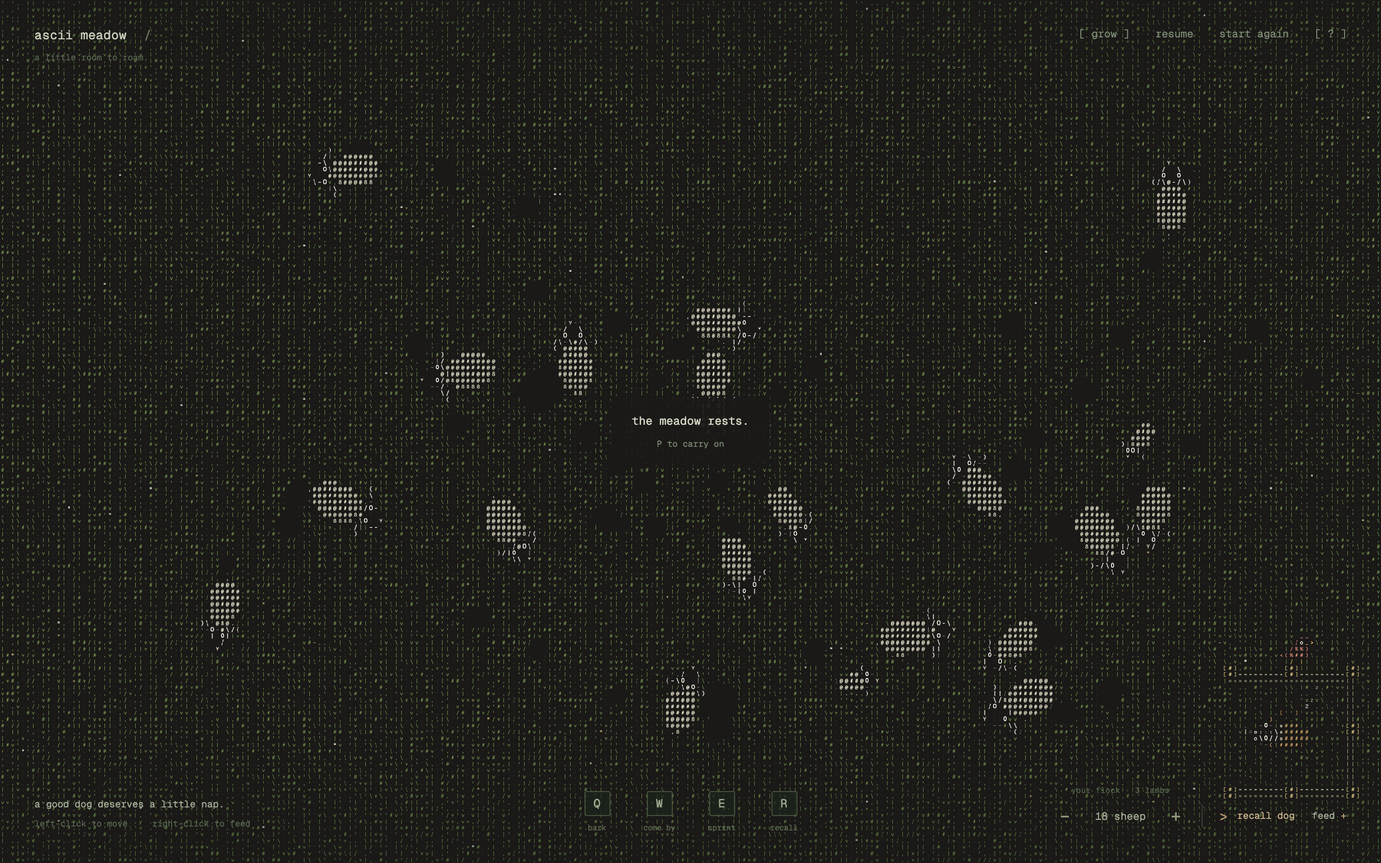
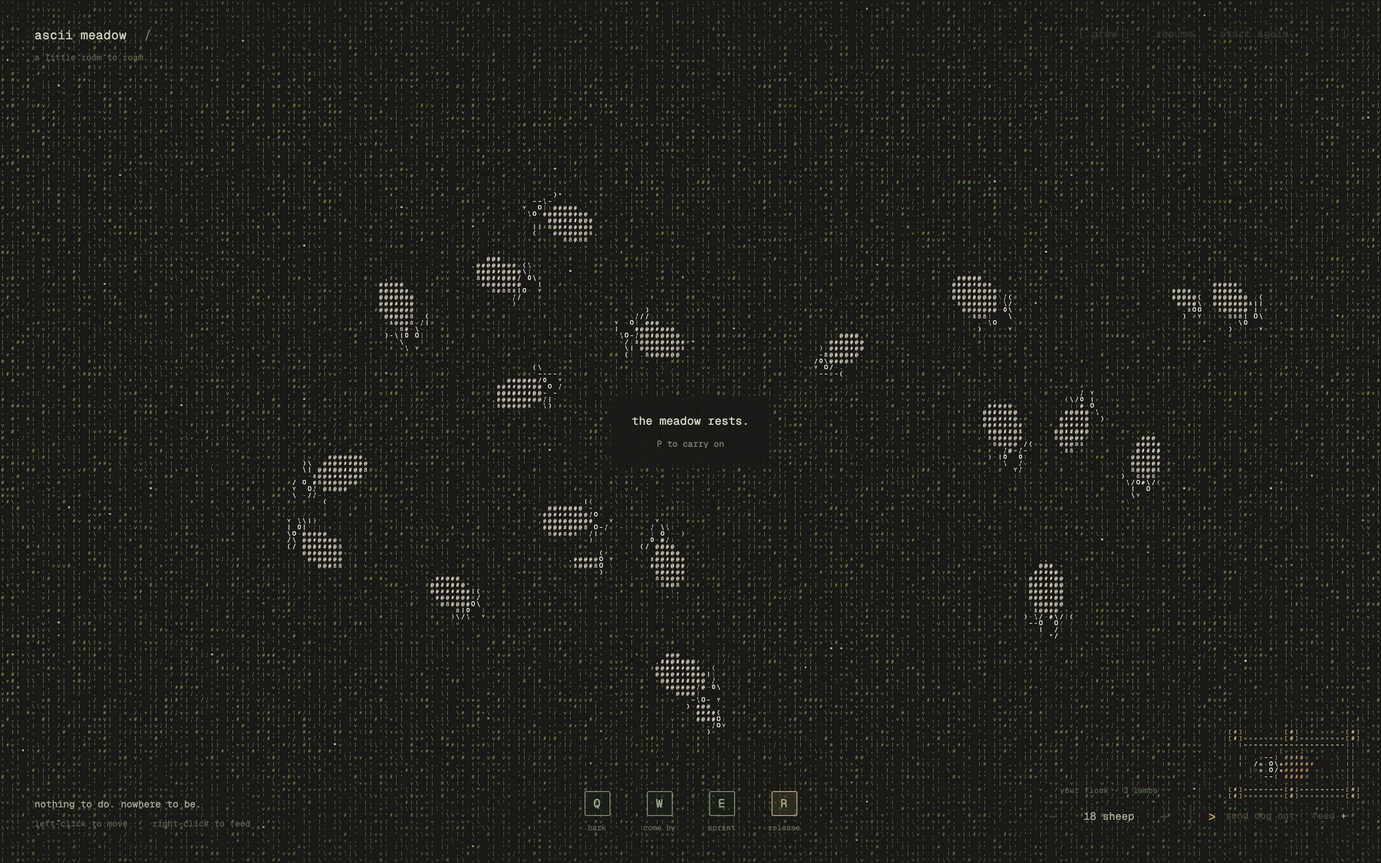
Make the pen a shallow rectangle with an opening left gate

diff --git a/src/simulation/World.ts b/src/simulation/World.ts
@@ -24,6 +24,7 @@ export interface Dog {
   arrived: boolean; sprint: number; orbit: 'w' | null; orbitEntering: boolean; orbitPath: Point[]; orbitProgress: number; orbitLast?: Point; orbitUpdatedAt: number;
   anchorX: number; anchorY: number; recallReady: boolean; recalling: boolean; atHome: boolean; launching: boolean;
   idleTime: number; sleeping: boolean; barkAge?: number; navPath: Point[]; navAt: number; navGoalX: number; navGoalY: number; navMode: 'clear' | 'squeeze' | 'cross'; navStuck: number; navClearSince: number;
+  penTransit?: 'exit' | 'approach' | 'enter' | null;
 }
 export interface Feed { id: number; x: number; y: number; amount: number; age: number; seed: number }
 export interface Rect { left: number; right: number; top: number; bottom: number }
@@ -39,6 +40,7 @@ export class World {
   marker: { x: number; y: number; age: number } | null = null;
   time = 0; paused = false; eaten = 0; nextId = 0; nextFeed = 0;
   panicLeft = 0; panicX = 0; panicY = 0;
+  gateOpen = 0;
   private random = seeded(74821);
   private fenceCache?: { width: number; height: number; value: Fence };
   constructor(public width: number, public height: number, count = 18) { this.pasture = new Pasture(width, height); this.reset(count); }
@@ -56,7 +58,7 @@ export class World {
   }
   get pen(): Rect {
     const right = this.width - 32 * this.scale, bottom = this.dogBounds.bottom - 5 * this.scale;
-    return { left: right - 128 * this.scale, right, top: bottom - 128 * this.scale, bottom };
+    return { left: right - 120 * this.scale, right, top: bottom - 60 * this.scale, bottom };
   }
   get fence() {
     if (!this.fenceCache || this.fenceCache.width !== this.width || this.fenceCache.height !== this.height)
@@ -75,6 +77,11 @@ export class World {
     const b = this.pen, x = (b.left + b.right) / 2, y = (b.top + b.bottom) / 2;
     return { x, y, doorX: x, doorY: y };
   }
+  private get penApproach() { return { x: this.pen.left - 110 * this.scale, y: this.home.y }; }
+  private needsPenExit(d: Dog) {
+    return d.x > this.penApproach.x && d.x <= this.home.x + 2 * this.scale && Math.abs(d.y - this.home.y) < 3 * this.scale &&
+      (d.atHome || d.penTransit === 'exit' || d.penTransit === 'enter' || d.x >= this.pen.left);
+  }
   dogAvoidanceRadius() {
     const d = this.dog;
     if (!d || d.atHome) return 0;
@@ -85,6 +92,8 @@ export class World {
   }
   clampPoint(x: number, y: number) { const p = this.outsidePen(this.clampTo(x, y, this.bounds), 66 * this.scale); return this.clampTo(p.x, p.y, this.bounds); }
   dogPoint(x: number, y: number) {
+    const b = this.pen;
+    if (x >= b.left && x <= b.right && y >= b.top && y <= b.bottom) return this.home;
     const p = this.clampTo(x, y, this.dogBounds), f = this.fence, safe = (q: Point) => !f.obstacles.some(o => Math.hypot(q.x - o.x, q.y - o.y) < o.radius + 1);
     if (safe(p)) return p;
     const candidates = [this.home, this.outsidePen(p, 64 * this.scale),
@@ -94,7 +103,7 @@ export class World {
   }
   reset(count = this.sheep.length) {
     this.random = seeded(74821); this.sheep.length = 0; this.lambs.length = 0; this.birdLife.reset(); this.dog = null; this.feed.length = 0;
-    this.time = 0; this.eaten = 0; this.nextId = 0; this.nextFeed = 0; this.barks.length = 0; this.marker = null; this.panicLeft = 0;
+    this.time = 0; this.eaten = 0; this.nextId = 0; this.nextFeed = 0; this.barks.length = 0; this.marker = null; this.panicLeft = 0; this.gateOpen = 0;
     this.pasture.resize(this.width, this.height, false);
     for (let i = 0; i < count; i++) this.addSheep(true);
   }
@@ -136,13 +145,16 @@ export class World {
     const p = { x: this.home.x, y: this.home.y };
     this.dog = { ...p, vx: 0, vy: 0, heading: Math.PI, targetX: p.x, targetY: p.y, arrived: true,
       sprint: 0, orbit: null, orbitEntering: false, orbitPath: [], orbitProgress: 0, orbitUpdatedAt: 0,
-      anchorX: p.x, anchorY: p.y, recallReady: false, recalling: false, atHome: true, launching: false, idleTime: 0, sleeping: false, barkAge: 99, navPath: [], navAt: -10, navGoalX: p.x, navGoalY: p.y, navMode: 'clear', navStuck: 0, navClearSince: -1 };
+      anchorX: p.x, anchorY: p.y, recallReady: true, recalling: false, atHome: true, launching: false, idleTime: 0, sleeping: false, barkAge: 99, navPath: [], navAt: -10, navGoalX: p.x, navGoalY: p.y, navMode: 'clear', navStuck: 0, navClearSince: -1, penTransit: null };
+    this.gateOpen = 0;
     return true;
   }
   sendDog(x: number, y: number) {
     if (!this.dog) this.toggleDog();
     const p = this.dogPoint(x, y), d = this.dog!;
-    Object.assign(d, { targetX: p.x, targetY: p.y, arrived: false, orbit: null, recallReady: false, recalling: false, atHome: false, launching: false, idleTime: 0, sleeping: false, navPath: [], navAt: -10, navMode: 'clear', navStuck: 0, navClearSince: -1 });
+    const homeGoal = p.x === this.home.x && p.y === this.home.y, leaving = this.needsPenExit(d);
+    const penTransit = homeGoal ? leaving ? 'enter' : 'approach' : leaving ? 'exit' : null;
+    Object.assign(d, { targetX: p.x, targetY: p.y, arrived: false, orbit: null, recallReady: homeGoal, recalling: homeGoal, atHome: false, launching: false, idleTime: 0, sleeping: false, navPath: [], navAt: -10, navMode: 'clear', navStuck: 0, navClearSince: -1, penTransit });
     this.marker = { ...p, age: 0 };
   }
   /** A padded envelope of EVERY sheep, rather than a mean radius. */
@@ -183,7 +195,9 @@ export class World {
     }
     if (key === 'e') { if (d.arrived && aim) this.sendDog(aim.x, aim.y); d.sprint = ABILITIES.e.duration; }
     if (key === 'w') {
+      const leaving = this.needsPenExit(d);
       d.recalling = false; d.recallReady = false; d.atHome = false; d.launching = false; d.navAt = -10;
+      d.penTransit = leaving ? 'exit' : null;
       d.orbitPath = this.orbitRoute(); d.orbitProgress = 0; d.orbitLast = undefined; d.orbitUpdatedAt = this.time;
       d.orbit = 'w'; d.orbitEntering = true;
     }
@@ -192,7 +206,9 @@ export class World {
         const p = aim ?? { x: this.width * 0.5, y: this.height * 0.5 };
         this.sendDog(p.x, p.y); d.launching = true; d.sprint = 0;
       } else {
+        const returning = this.needsPenExit(d);
         d.orbit = null; d.sprint = 0; d.launching = false; d.recalling = true; d.recallReady = true; d.atHome = false;
+        d.penTransit = returning ? 'enter' : 'approach'; d.navPath = []; d.navAt = -10;
         d.targetX = this.home.doorX; d.targetY = this.home.doorY; d.arrived = false;
       }
     }
@@ -206,9 +222,14 @@ export class World {
     const sx = width / this.width, sy = height / this.height; this.width = width; this.height = height; this.pasture.resize(width, height); this.birdLife.resize(sx, sy, this.fence.posts, this.pasture.cellH);
     for (const s of this.animals) { const p = this.clampPoint(s.x * sx, s.y * sy), goal = this.clampPoint(s.goalX * sx, s.goalY * sy); Object.assign(s, p, { goalX: goal.x, goalY: goal.y }); }
     if (this.dog) {
-      const p = this.dogPoint(this.dog.x * sx, this.dog.y * sy), goal = this.dogPoint(this.dog.targetX * sx, this.dog.targetY * sy);
-      Object.assign(this.dog, p, { targetX: goal.x, targetY: goal.y });
-      if (this.dog.recalling || this.dog.atHome) { this.dog.targetX = this.home.doorX; this.dog.targetY = this.home.doorY; this.dog.recalling = true; this.dog.atHome = false; }
+      const d = this.dog, p = this.dogPoint(d.x * sx, d.y * sy), goal = this.dogPoint(d.targetX * sx, d.targetY * sy);
+      if (d.atHome) {
+        Object.assign(d, this.home, { targetX: this.home.x, targetY: this.home.y, vx: 0, vy: 0, heading: Math.PI, arrived: true, penTransit: null }); this.gateOpen = 0;
+      } else {
+        Object.assign(d, p, { targetX: goal.x, targetY: goal.y, navPath: [], navAt: -10 });
+        if (d.penTransit === 'enter' || d.penTransit === 'exit') { d.x = clamp(d.x, this.penApproach.x, this.home.x); d.y = this.home.y; }
+        if (d.recalling) { d.targetX = this.home.x; d.targetY = this.home.y; if (d.penTransit !== 'enter') d.penTransit = 'approach'; }
+      }
     }
     for (const f of this.feed) Object.assign(f, this.clampPoint(f.x * sx, f.y * sy));
     this.barks.length = 0; this.marker = null;
@@ -308,10 +329,31 @@ export class World {
     d.navPath = path; d.navMode = mode; d.navAt = this.time; d.navGoalX = goal.x; d.navGoalY = goal.y; d.navClearSince = -1;
   }
   private stepDog(dt: number) {
-    const d = this.dog; if (!d) return;
+    const d = this.dog;
+    const opening = d?.penTransit === 'exit' || d?.penTransit === 'enter';
+    this.gateOpen = clamp(this.gateOpen + dt * (opening ? 10 : -10), 0, 1);
+    if (!d) return;
     d.barkAge = Math.min(99, (d.barkAge ?? 99) + dt);
     if (d.atHome && (d.x < this.pen.left || d.x > this.pen.right || d.y < this.pen.top || d.y > this.pen.bottom)) d.atHome = false;
     d.sprint = Math.max(0, d.sprint - dt);
+    if (opening) {
+      const entering = d.penTransit === 'enter', goal = entering ? this.home : this.penApproach;
+      d.heading = entering ? 0 : Math.PI; d.y = this.home.y; d.vx = 0; d.vy = 0;
+      // Wait for the door, then pass lengthwise through the short pen. Staying
+      // on its centerline keeps the head, tail and paws clear of the rails.
+      if (this.gateOpen >= 1) {
+        const dx = goal.x - d.x, max = (d.launching ? SPEEDS.dogRelease : d.sprint > 0 ? SPEEDS.dogSprint : d.orbit ? SPEEDS.dogOrbit : SPEEDS.dogWalk) * this.scale;
+        d.vx = Math.sign(dx) * Math.min(max, Math.abs(dx) * 5); d.x += d.vx * dt;
+        if (Math.abs(goal.x - d.x) < 2 * this.scale) {
+          d.x = goal.x; d.vx = 0; d.penTransit = null; d.navPath = []; d.navAt = -10;
+          if (entering) { d.arrived = true; d.atHome = true; d.recalling = false; d.recallReady = true; d.launching = false; }
+        }
+      }
+      return;
+    }
+    if (d.atHome) {
+      d.idleTime += dt; d.sleeping = d.idleTime >= 7; return;
+    }
     if (d.orbit) {
       if (this.time - d.orbitUpdatedAt > 0.45) { d.orbitPath = this.orbitRoute(); d.orbitUpdatedAt = this.time; }
       const path = d.orbitPath, near = nearestOnRoute(path, d);
@@ -328,7 +370,8 @@ export class World {
       d.orbitLast = { x: d.x, y: d.y };
       if (d.orbitProgress >= 1) { d.orbit = null; d.targetX = d.x; d.targetY = d.y; }
     }
-    const obstacles = this.dogObstacles(), goal = { x: d.targetX, y: d.targetY };
+    const approaching = d.penTransit === 'approach';
+    const obstacles = this.dogObstacles(), goal = approaching ? this.penApproach : { x: d.targetX, y: d.targetY };
     const goalDistance = Math.hypot(goal.x - d.x, goal.y - d.y), direct = segmentClear(d, goal, obstacles);
     if (direct) { if (d.navClearSince < 0) d.navClearSince = this.time; } else d.navClearSince = -1;
     while (d.navPath.length && Math.hypot(d.navPath[0].x - d.x, d.navPath[0].y - d.y) < (d.navPath.length === 1 ? 1.5 : 5) * this.scale) d.navPath.shift();
@@ -358,8 +401,9 @@ export class World {
     const moving = Math.hypot(d.vx, d.vy);
     d.navStuck = goalDistance > 12 * this.scale && moving < 12 * this.scale ? d.navStuck + dt : Math.max(0, d.navStuck - dt * 3);
     if (!d.arrived && Math.hypot(d.vx, d.vy) > 2) d.heading = angleDelta(0, d.heading + clamp(angleDelta(d.heading, Math.atan2(d.vy, d.vx)), -dt * 5, dt * 5));
-    if (d.arrived) {
-      if (d.recalling) { d.recalling = false; d.atHome = true; d.x = this.home.doorX; d.y = this.home.doorY; }
+    if (approaching && Math.hypot(d.x - goal.x, d.y - goal.y) < 2) {
+      Object.assign(d, goal, { arrived: false, vx: 0, vy: 0, heading: 0, penTransit: 'enter', navPath: [], navAt: -10 });
+    } else if (d.arrived) {
       d.launching = false;
     }
     d.idleTime = d.arrived && !d.orbit && d.sprint <= 0 ? d.idleTime + dt : 0;

diff --git a/tests/meadow.test.ts b/tests/meadow.test.ts
@@ -7,6 +7,20 @@ import { BirdLife } from '../src/simulation/Birds';
 import { createBark } from '../src/simulation/bark';
 
 function advance(world: World, seconds: number) { for (let i = 0; i < seconds * 60; i++) world.step(1 / 60); }
+// In the doorway the dog passes lengthwise; in the field its conservative
+// navigation footprint must clear every side, including the closed gate.
+function expectPenClear(w: World) {
+  const d = w.dog!, p = w.pen;
+  if (d.atHome || d.penTransit === 'enter' || d.penTransit === 'exit') {
+    expect(d.y).toBeCloseTo(w.home.y);
+    expect(Math.abs(Math.sin(d.heading))).toBeLessThan(0.001);
+    expect(d.y - 21 * w.scale).toBeGreaterThan(p.top + 5 * w.scale);
+    expect(d.y + 21 * w.scale).toBeLessThan(p.bottom - 5 * w.scale);
+    expect(d.x + 48 * w.scale).toBeLessThan(p.right - 5 * w.scale);
+    if (Math.abs(d.x - p.left) < 49 * w.scale) expect(w.gateOpen).toBe(1);
+  } else for (const o of w.fence.obstacles)
+    expect(Math.hypot(d.x - o.x, d.y - o.y)).toBeGreaterThanOrEqual(o.radius - 0.1);
+}
 describe('lambs and visiting birds', () => {
   it('adds one small lamb per six adults and maintains that ratio through population changes', () => {
     const w = new World(1200, 900, 5);
@@ -115,16 +129,26 @@ describe('forward grazing and a physical recall pen', () => {
     const turn = Math.atan2(s.goalY - 450, s.goalX - 500);
     expect(s.state).toBe('walking'); expect(Math.abs(turn)).toBeGreaterThan(0.3); expect(Math.abs(turn)).toBeLessThanOrEqual(Math.PI / 4 + 1e-8);
   });
-  it('spawns inside the pen and uses the gate for exit and recall without clipping rails', () => {
-    const w = new World(1200, 900, 0); w.toggleDog();
-    expect(w.dog!.x).toBe(w.home.x); expect(w.dog!.y).toBe(w.home.y); expect(w.dog!.atHome).toBe(true); expect(w.fence.posts).toHaveLength(7);
-    expect((w.pen.right - w.pen.left) * (w.pen.bottom - w.pen.top)).toBeLessThan(164 * 180 * 0.6);
-    const safe = () => { for (const o of w.fence.obstacles) expect(Math.hypot(w.dog!.x - o.x, w.dog!.y - o.y)).toBeGreaterThanOrEqual(o.radius - 0.1); };
-    w.sendDog(300, 300);
-    for (let i = 0; i < 900; i++) { w.step(1 / 60); safe(); }
-    expect(w.dog!.arrived).toBe(true); expect(Math.hypot(w.dog!.x - 300, w.dog!.y - 300)).toBeLessThan(2);
-    w.cast('r'); for (let i = 0; i < 1200; i++) { w.step(1 / 60); safe(); }
-    expect(w.dog!.atHome).toBe(true); expect(w.dog!.x).toBeCloseTo(w.home.x);
+  it.each([[1200, 900], [412, 839]])('uses a compact 2:1 pen and opens the gate for exit and recall at %i × %i', (width, height) => {
+    const w = new World(width, height, 0); w.toggleDog();
+    expect(w.dog!.x).toBe(w.home.x); expect(w.dog!.y).toBe(w.home.y); expect(w.dog!.atHome).toBe(true); expect(w.gateOpen).toBe(0);
+    expect(w.fence.posts).toHaveLength(6);
+    expect(w.pen.right - w.pen.left).toBeCloseTo((w.pen.bottom - w.pen.top) * 2);
+    for (const x of [w.pen.left, w.pen.right]) expect(w.fence.posts.filter(p => p.x === x)).toHaveLength(2);
+    const target = { x: width * 0.25, y: height * 0.35 };
+    w.sendDog(target.x, target.y);
+    for (let i = 0; i < 900; i++) { w.step(1 / 60); expectPenClear(w); }
+    expect(w.dog!.arrived).toBe(true); expect(Math.hypot(w.dog!.x - target.x, w.dog!.y - target.y)).toBeLessThan(2); expect(w.gateOpen).toBe(0);
+    w.cast('r'); for (let i = 0; i < 1200; i++) { w.step(1 / 60); expectPenClear(w); }
+    expect(w.dog!.atHome).toBe(true); expect(w.dog!.x).toBeCloseTo(w.home.x); expect(w.gateOpen).toBe(0);
+  });
+  it('can reverse a release into recall, release again, and keep a resting dog inside on resize', () => {
+    const w = new World(1200, 900, 0); w.toggleDog(); w.cast('r', { x: 500, y: 350 }); advance(w, 0.35);
+    expect(w.dog!.penTransit).toBe('exit'); expect(w.gateOpen).toBe(1);
+    w.cast('r'); advance(w, 4); expect(w.dog!.atHome).toBe(true); expect(w.gateOpen).toBe(0);
+    w.resize(412, 839); expect(w.dog!.x).toBe(w.home.x); expect(w.dog!.y).toBe(w.home.y); expect(w.dog!.atHome).toBe(true);
+    w.cast('r', { x: 160, y: 320 }); advance(w, 8); expect(w.dog!.arrived).toBe(true); expect(w.gateOpen).toBe(0);
+    expect(Math.hypot(w.dog!.x - 160, w.dog!.y - 320)).toBeLessThan(2);
   });
   it('sprint cannot pass through a closed rail and sheep heads stay clear of the pen', () => {
     const w = new World(1200, 900, 1); w.toggleDog();
@@ -132,7 +156,7 @@ describe('forward grazing and a physical recall pen', () => {
     const s = w.sheep[0]; Object.assign(s, { x: w.pen.left - 75, y: w.home.y, heading: 0, state: 'walking', goalX: w.home.x, goalY: w.home.y, timer: 100 });
     for (let i = 0; i < 1500; i++) {
       w.step(1 / 60);
-      for (const o of w.fence.obstacles) expect(Math.hypot(w.dog!.x - o.x, w.dog!.y - o.y)).toBeGreaterThanOrEqual(o.radius - 0.1);
+      expectPenClear(w);
       expect(s.x <= w.pen.left - 66 * w.scale + 0.1 || s.y <= w.pen.top - 66 * w.scale + 0.1).toBe(true);
     }
     expect(w.dog!.arrived).toBe(true);

diff --git a/e2e/meadow.spec.ts b/e2e/meadow.spec.ts
@@ -345,7 +345,7 @@ test('the dog starts inside a thick posted pen, opens its mouth to bark, and bir
       }
       return { eyes, nose, word: letters.sort((a, b) => a.x - b.x).map(c => c.glyph).join('') };
     };
-    const closed = scan(), inside = w.dog.x > w.pen.left + 45 * w.scale && w.dog.x < w.pen.right - 45 * w.scale && w.dog.y > w.pen.top + 45 * w.scale && w.dog.y < w.pen.bottom - 45 * w.scale;
+    const closed = scan(), inside = w.dog.x > w.pen.left + 45 * w.scale && w.dog.x < w.pen.right - 45 * w.scale && w.dog.y > w.pen.top + 21 * w.scale && w.dog.y < w.pen.bottom - 21 * w.scale;
     const postInk = w.fence.posts.filter((q: any) => r.cellAt(q.x, q.y).glyph === '#').length;
     w.paused = false; app.controller.cast('q'); w.paused = true; const open = scan();
     w.dog.barkAge = 1; r.render(); const quiet = scan();
@@ -369,7 +369,39 @@ test('the dog starts inside a thick posted pen, opens its mouth to bark, and bir
     return { closed, open, quiet, inside, postInk, postCount: w.fence.posts.length, perched, visibleAboveEverything };
   });
   expect(result.inside).toBe(true); expect(result.closed.eyes).toBe(2); expect(result.closed.nose).toBeGreaterThan(0);
-  expect(result.postInk).toBe(result.postCount); expect(result.postCount).toBe(7);
+  expect(result.postInk).toBe(result.postCount); expect(result.postCount).toBe(6);
   expect(result.open.eyes).toBeGreaterThan(result.closed.eyes); expect(result.open.word).toBe('WOOF!'); expect(result.quiet.word).toBe(''); expect(result.perched).toBe(true); expect(result.visibleAboveEverything).toBe(true);
   await page.screenshot({ path: `docs/${info.project.name}-pen-bark.png` });
+});
+
+test('the short 2:1 pen has a working left gate for release and recall', async ({ page }, info) => {
+  const initial = await state(page);
+  expect(initial.gateOpen).toBe(0); expect(initial.dog.atHome).toBe(true); expect(initial.dog.recallReady).toBe(true);
+  expect(initial.pen.right - initial.pen.left).toBeCloseTo(2 * (initial.pen.bottom - initial.pen.top));
+  const closedDoor = await page.evaluate(() => {
+    const { world: w, renderer: r } = (window as any).__meadow;
+    return r.cellAt(w.pen.left, w.home.y).family;
+  });
+  expect(closedDoor).toBe(5);
+  await page.mouse.move(initial.width * 0.4, initial.height * 0.4); await page.keyboard.press('r');
+  const released = await page.evaluate(() => {
+    const app = (window as any).__meadow, w = app.world;
+    for (let i = 0; i < 8; i++) w.step(1 / 60);
+    app.renderer.render();
+    return { gate: w.gateOpen, passage: w.dog.penTransit, launching: w.dog.launching,
+      ink: app.renderer.cellAt(w.pen.left, w.home.y).family };
+  });
+  expect(released.gate).toBe(1); expect(released.passage).toBe('exit'); expect(released.launching).toBe(true); expect(released.ink).not.toBe(5);
+  await page.screenshot({ path: `docs/${info.project.name}-pen-gate-open.png` });
+  await page.evaluate(() => {
+    const app = (window as any).__meadow; for (let i = 0; i < 360; i++) app.world.step(1 / 60); app.renderer.render();
+  });
+  const outside = await state(page); expect(outside.dog.atHome).toBe(false); expect(outside.gateOpen).toBe(0);
+  await page.keyboard.press('r');
+  await page.evaluate(() => {
+    const app = (window as any).__meadow; for (let i = 0; i < 1200; i++) app.world.step(1 / 60); app.controller.sync(); app.renderer.render();
+  });
+  const home = await state(page); expect(home.dog.atHome).toBe(true); expect(home.gateOpen).toBe(0);
+  expect(home.dog.x).toBe(home.home.x); expect(home.dog.y).toBe(home.home.y);
+  await page.screenshot({ path: `docs/${info.project.name}-pen-gate.png` });
 });

diff --git a/src/engine/Renderer.ts b/src/engine/Renderer.ts
@@ -1,6 +1,7 @@
 import { clamp, hash3, lineGlyph } from '../vendor/pond-math';
 import { DENSITY_GLYPHS, grassAppearance } from './grass';
 import type { Bird } from '../simulation/Birds';
+import { gateLeaf } from '../simulation/fence';
 import { BARK_TRAVEL_TIME, BARK_FADE_TIME, BARK_LIFETIME, barkRadius, type Bark } from '../simulation/bark';
 import type { Sheep, World } from '../simulation/World';
 
@@ -187,8 +188,9 @@ export class Renderer {
     this.put(hx + dx * 17 * scale, hy + dy * 17 * scale, barking ? 'O' : lineGlyph(sx, sy), barking ? 1 : 0.7, 3, 4);
     if (barking) this.put(hx + dx * 20 * scale, hy + dy * 20 * scale, 'v', 0.95, 2, 3);
     // An unobtrusive copper selection mark makes the dog easy to pick out.
-    this.put(d.x - 10, d.y - 25 * scale, '[', 0.5, 4);
-    this.put(d.x + 10, d.y - 25 * scale, ']', 0.5, 4);
+    const selectionY = d.y - (d.atHome || d.penTransit === 'enter' || d.penTransit === 'exit' ? 19 : 25) * scale;
+    this.put(d.x - 10, selectionY, '[', 0.5, 4);
+    this.put(d.x + 10, selectionY, ']', 0.5, 4);
   }
   private bird(b: Bird) {
     const w = this.world, p = w.pasture, scale = w.scale, flying = b.state !== 'landed';
@@ -261,6 +263,15 @@ export class Renderer {
           this.put((col + dc + 0.5) * p.cellW, (r + 0.5) * p.cellH, '|', 0.9, 7, 2);
       }
     }
+    const door = gateLeaf(b, w.gateOpen), dx = door.b.x - door.a.x, dy = door.b.y - door.a.y;
+    const length = Math.hypot(dx, dy), nx = dy / length, ny = -dx / length;
+    for (const offset of [-p.cellW * 0.5, p.cellW * 0.5])
+      this.stroke(door.a.x + nx * offset, door.a.y + ny * offset, door.b.x + nx * offset, door.b.y + ny * offset, 0.9, 5, 2);
+    for (const t of [0.25, 0.5, 0.75]) {
+      const x = door.a.x + dx * t, y = door.a.y + dy * t;
+      this.stroke(x - nx * p.cellW, y - ny * p.cellW, x + nx * p.cellW, y + ny * p.cellW, 0.8, 5, 2);
+    }
+    this.put(door.b.x - dx * 0.12, door.b.y - dy * 0.12, 'o', 0.95, 5, 3);
     for (const post of w.fence.posts) {
       const c = Math.floor(post.x / p.cellW), r = Math.floor(post.y / p.cellH);
       for (const dy of [-1, 0]) for (const dx of [-1, 0, 1]) this.put((c + dx + 0.5) * p.cellW, (r + dy + 0.5) * p.cellH, dx === 0 ? '#' : dx < 0 ? '[' : ']', dx === 0 ? 0.95 : 0.75, 5, 3);

diff --git a/src/simulation/fence.ts b/src/simulation/fence.ts
@@ -3,22 +3,25 @@ import type { Obstacle } from './navigation';
 
 export interface FenceRect { left: number; right: number; top: number; bottom: number }
 export interface Fence { rails: { a: Point; b: Point }[]; posts: Point[]; obstacles: Obstacle[]; gate: Point }
+export function gateLeaf(p: FenceRect, openness: number) {
+  const angle = Math.max(0, Math.min(1, openness)) * Math.PI / 2, length = p.bottom - p.top;
+  return { a: { x: p.left, y: p.top }, b: { x: p.left - Math.sin(angle) * length, y: p.top + Math.cos(angle) * length } };
+}
 export function makeFence(p: FenceRect, scale: number): Fence {
-  const cy = (p.top + p.bottom) / 2, halfGate = Math.min(70 * scale, (p.bottom - p.top) / 2 - scale);
+  const cy = (p.top + p.bottom) / 2;
   const rails = [
     { a: { x: p.left, y: p.top }, b: { x: p.right, y: p.top } },
     { a: { x: p.right, y: p.top }, b: { x: p.right, y: p.bottom } },
     { a: { x: p.right, y: p.bottom }, b: { x: p.left, y: p.bottom } },
-    { a: { x: p.left, y: p.top }, b: { x: p.left, y: cy - halfGate } },
-    { a: { x: p.left, y: cy + halfGate }, b: { x: p.left, y: p.bottom } },
   ];
   const posts: Point[] = [], obstacles: Obstacle[] = [];
   const addPost = (q: Point) => { if (!posts.some(o => Math.hypot(o.x - q.x, o.y - q.y) < 2 * scale)) posts.push(q); };
-  for (const rail of rails) {
+  // Field navigation treats the pen as enclosed. Only the straight gate passage
+  // can cross its left edge; its narrow interior cannot fit a turning dog.
+  for (const rail of [...rails, gateLeaf(p, 0)]) {
     const length = Math.hypot(rail.b.x - rail.a.x, rail.b.y - rail.a.y), steps = Math.max(1, Math.ceil(length / (16 * scale)));
     for (let j = 0; j <= steps; j++) obstacles.push({ x: rail.a.x + (rail.b.x - rail.a.x) * j / steps, y: rail.a.y + (rail.b.y - rail.a.y) * j / steps, radius: 55 * scale });
-    // Corners and, on a long side, just one central post. Gate jambs near a
-    // corner share that post rather than making a second crowded pair.
+    // One middle post on each long side; just corners on the short sides.
     const spans = length > 90 * scale ? 2 : 1;
     for (let j = 0; j <= spans; j++) addPost({ x: rail.a.x + (rail.b.x - rail.a.x) * j / spans, y: rail.a.y + (rail.b.y - rail.a.y) * j / spans });
   }

diff --git a/src/main.ts b/src/main.ts
@@ -36,6 +36,6 @@ if (new URLSearchParams(location.search).has('debug')) Object.defineProperty(win
   grass: world.pasture.grass.reduce((a, b) => a + b, 0), eaten: world.eaten,
   lambs: world.lambs.map(s => ({ ...s })), birds: world.birds.map(b => ({ ...b })),
   feed: world.feed.map(f => ({ ...f })), sheep: world.sheep.map(s => ({ ...s })), dog: world.dog ? { ...world.dog } : null,
-  herd: world.herdCenter(), home: world.home, pen: world.pen, regrowMode: controller.regrowMode, outline: world.orbitOutline(), panic: world.panicLeft, barks: world.barks.length, feedMode: controller.feedMode, fps,
+  herd: world.herdCenter(), home: world.home, pen: world.pen, gateOpen: world.gateOpen, regrowMode: controller.regrowMode, outline: world.orbitOutline(), panic: world.panicLeft, barks: world.barks.length, feedMode: controller.feedMode, fps,
 }) } });
 if (import.meta.hot) import.meta.hot.dispose(() => { cancelAnimationFrame(raf); resize.disconnect(); controller.destroy(); reduced.removeEventListener('change', motion); document.removeEventListener('visibilitychange', visibility); });

diff --git a/README.md b/README.md
@@ -33,9 +33,9 @@ All four actions can be used again immediately: **there are no cooldowns**.
 | **Q** | **Bark** | A thin, broken ripple appears immediately outside the dog and crosses the entire field in 0.55 seconds, fading by 0.67 seconds. Sheep and lambs start their short, roughly 100 px escape only as the visible wave touches their bodies; each wave nudges an animal once. The dog opens its mouth and a short spiky `WOOF!` burst appears beside the muzzle. Recasting creates a new wave and restarts the comic animation. |
 | **W** | **Come By** | The dog joins a rounded, padded convex outline of **every** sheep, including edge strays, then makes a full lap. Curved ends and a short look-ahead avoid empty rectangular corners. The faster pass applies inward herding pressure only while W is active. The outline updates as the sheep move. |
 | **E** | **Sprint** | A short sprint toward its current destination. When idle, the dog sprints toward the cursor. |
-| **R** | **Recall / Release** | First press: return to the small fenced pen in the bottom-right corner. Next press: sprint all the way to the cursor, with no click required. The second press also works while the dog is on its way home. |
+| **R** | **Recall / Release** | In the meadow: return through the left gate to the small fenced pen. At home, or after starting a recall: sprint all the way to the cursor, with no click required. The second press also works while the dog is on its way home. |
 
-The dog starts resting fully inside the pen on page load and after starting again. The compact 128 × 128 px pen has about 45% less area than before, with four corner posts and only one intermediate post on each closed side. The bottom-right dog button offers the same recall/release action as R. An idle dog dozes after seven seconds and releases drifting `z`/`Z` glyphs. Movement or an ability wakes it immediately. A sleeping dog keeps a gentle 56 px personal-space radius. A moving dog influences a wider 172 px radius (205 px during a sprint), and sheep anticipate its approach about half a second ahead. An awake stationary dog keeps a smaller 92 px zone. A recalled dog rests inside its pen. The pen has double ASCII rails, chunky corner and intermediate posts, and an open gate facing the meadow. Dog navigation and continuous collision checks use the same fence geometry as the drawing, with room for the whole head, body and tail; even a sprint must use the gate. Sheep keep their entire silhouettes clear of the pen. Come By detours around the fence and measures progress along its route so detours do not shorten the lap. On arrival the dog keeps its last heading, including when it falls asleep. Heading updates use the signed shortest angle and stay normalized, so repeated Come By laps never produce a 270-degree turn at a 90-degree corner.
+The dog starts resting fully inside the pen on page load and after starting again. The compact 120 × 60 px pen is a 2:1 rectangle, with four corner posts, one intermediate post on each long side and none on either short side. Its area is 56% smaller than the previous square pen. The bottom-right dog button offers the same recall/release action as R. An idle dog dozes after seven seconds and releases drifting `z`/`Z` glyphs. Movement or an ability wakes it immediately. A sleeping dog keeps a gentle 56 px personal-space radius. A moving dog influences a wider 172 px radius (205 px during a sprint), and sheep anticipate its approach about half a second ahead. An awake stationary dog keeps a smaller 92 px zone. A recalled dog rests inside its pen. The pen has double ASCII rails and a hinged gate on the left. The door swings open before the dog passes, then closes once the dog is safely clear or resting inside. The dog walks straight through the doorway so its head, paws and tail fit the shallow pen; field navigation and continuous collision checks keep it away from the closed sides, including during a sprint. R releases the dog immediately when it is already at home. Sheep keep their entire silhouettes clear of the pen. Come By detours around the fence and measures progress along its route so detours do not shorten the lap. On arrival the dog keeps its last heading, including when it falls asleep. Heading updates use the signed shortest angle and stay normalized, so repeated Come By laps never produce a 270-degree turn at a 90-degree corner.
 
 ## Feeding and other controls
 

diff --git a/docs/VALIDATION.md b/docs/VALIDATION.md
@@ -5,8 +5,8 @@ Verified on November 13, 2026.
 | Check | Result |
 | --- | --- |
 | Production build | Strict TypeScript + Vite build passed |
-| Simulation tests | 58 passing |
-| Browser checks | 37 passing, desktop and mobile Chromium |
+| Simulation tests | 60 passing |
+| Browser checks | 39 passing, desktop and mobile Chromium |
 | Touch-only desktop check | Intentionally skipped; tested on the mobile project |
 | Runtime errors | None observed in browser checks |
 | Full-screen character field | Canvas fills the viewport; more than 94% of sampled cell interiors contain ink |
@@ -26,8 +26,10 @@ Animal ground shadows and automatic trampling marks have been removed. Dog, shee
 
 The screenshots in this directory are actual captures of the application, inspected during development. The in-app browser was also used directly to call the dog, issue left-click commands and bark.
 
-Raw frame samples are saved in `performance-desktop.json` and `performance-mobile.json`. The default desktop has 36,450 grass cells and 18 adults plus 3 lambs, with occasional birds. Production JavaScript is approximately 56.5 kB (20.4 kB gzip), with 6.7 kB CSS and a 9.9 kB local font. There are no runtime package dependencies.
+Raw frame samples are saved in `performance-desktop.json` and `performance-mobile.json`. The default desktop has 36,450 grass cells and 18 adults plus 3 lambs, with occasional birds. Production JavaScript is approximately 58.7 kB (21.1 kB gzip), with 6.7 kB CSS and a 9.9 kB local font. There are no runtime package dependencies.
 
 These are samples from this computer, not a hardware-independent FPS guarantee. Mobile checks use Chromium emulation; native Safari and physical touch devices remain unverified. The meadow is a local project and has not been deployed.
 
-The compact pen is 128 × 128 px before responsive scaling, a 44.5% area reduction. Seven posts give four corners and a single intermediate post on each closed side. Gate exit, recall and sprint rail protection pass with the smaller pen. Fresh-page and reset browser checks confirm the dog is already parked at home without a click. Sitting birds have a larger seven-column, five-row side profile. Perched birds render last at the highest priority; deliberate overlap by the dog and a flying bird preserves every perched glyph on desktop and mobile. `compact-pen.png` and `compact-pen-detail.png` show the smaller enclosure, resting dog and an actual landed visitor.
+The compact pen is now 120 × 60 px before responsive scaling: a 2:1 rectangle with 56% less area than the previous square. Six posts give four corners and one intermediate post on each long side, with none on the short sides. The left gate swings open before release or entry and closes after the dog is clear or resting at home. Passage follows a horizontal centerline so the smaller pen clears the dog’s entire silhouette. Desktop/mobile simulation checks cover full exit, closed-gate field travel, recall, reversing a release into recall, re-release and resizing a resting dog. Browser checks verify the initial closed door, its ink disappearing from the entrance as it swings open, cursor release, re-closing after exit and a completed recall with the door closed. The dog starts at home and R releases it immediately. Perched birds retain their highest rendering priority.
+
+`compact-pen-detail.png` shows the smaller rectangle and closed door. `pen-gate-open-detail.png` shows an actual release through the open gate. Full desktop/mobile captures are saved in `*-pen-gate.png` and `*-pen-gate-open.png`.
